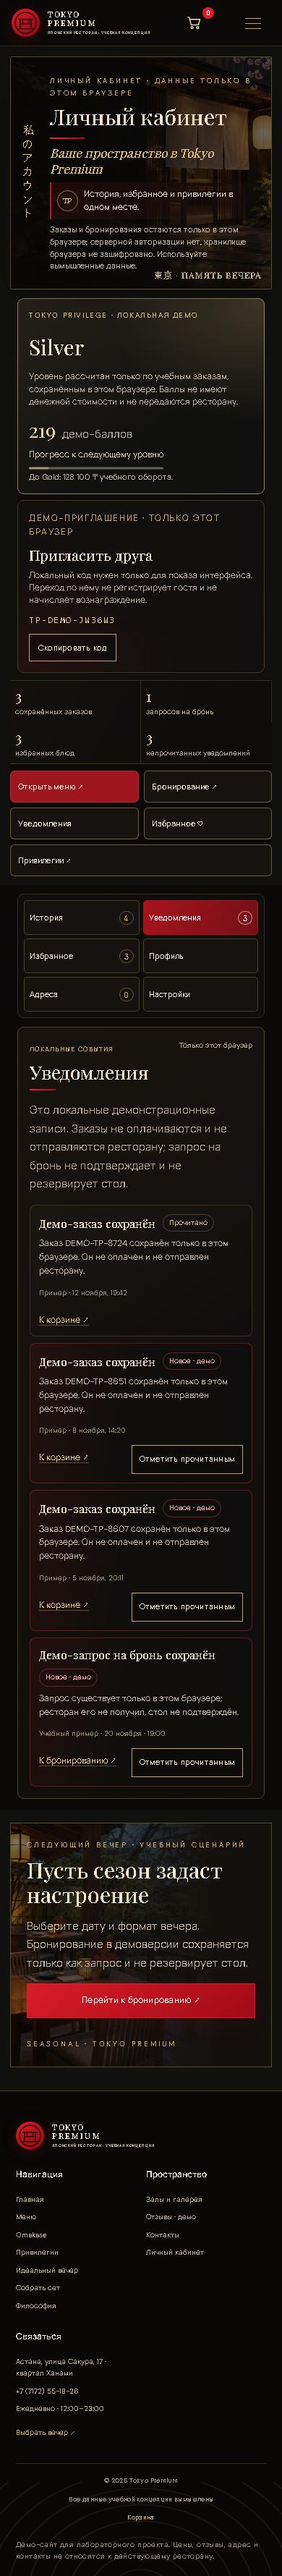
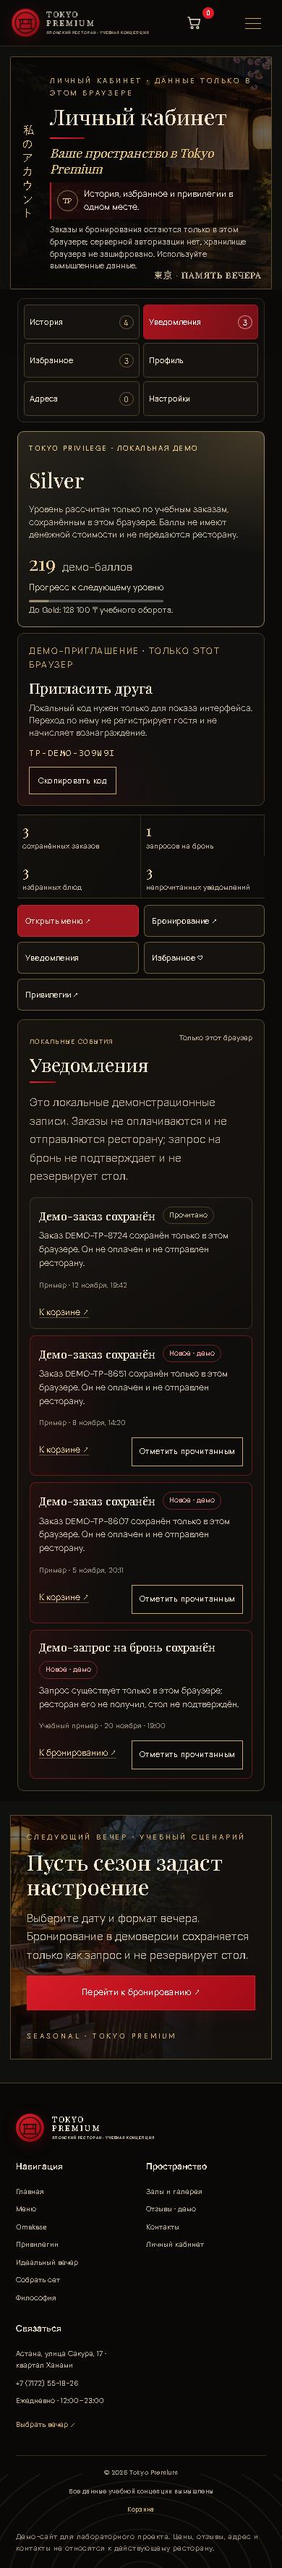
Align account dashboard and mobile navigation

diff --git a/docs/account.html b/docs/account.html
@@ -2,8 +2,8 @@
   <div class="account-overview-art"><img src="assets/generated/contact-exterior.webp" alt="Вход в ресторан Tokyo Premium с цветущей сакурой" loading="eager" fetchpriority="high"><span class="account-demo-seal">東京 · ПАМЯТЬ ВЕЧЕРА</span></div>
   <div class="account-overview-body"><div class="kicker">Личный кабинет · данные только в этом браузере</div><h1>Личный кабинет</h1><p class="account-overview-lead">Ваше пространство в Tokyo Premium</p><p class="account-overview-greeting" id="demo-display-name">История, избранное и привилегии в одном месте.</p><p class="account-overview-privacy">Заказы и бронирования остаются только в этом браузере; серверной авторизации нет, хранилище браузера не зашифровано. Используйте вымышленные данные.</p></div>
 </section>
-<section class="section tp20-static-privilege" data-tp-demo-loyalty aria-label="Демонстрационная программа Tokyo Privilege"><article class="tp20-loyalty-card" data-tp-loyalty-card data-tier="Silver"><span class="kicker">TOKYO PRIVILEGE · ЛОКАЛЬНАЯ ДЕМО</span><h2 data-tp-loyalty-tier>Silver</h2><p>Уровень рассчитан только по учебным заказам, сохранённым в этом браузере. Баллы не имеют денежной стоимости и не передаются ресторану.</p><div class="tp20-loyalty-balance"><strong data-tp-loyalty-points>0</strong><span>демо-баллов</span></div><label>Прогресс к следующему уровню<progress data-tp-loyalty-progress max="100" value="0">0%</progress></label><small data-tp-loyalty-progress-label>Статус появится после сохранённого учебного заказа.</small></article><article class="tp20-referral-card"><span class="kicker">ДЕМО-ПРИГЛАШЕНИЕ · ТОЛЬКО ЭТОТ БРАУЗЕР</span><h3>Пригласить друга</h3><p>Локальный код нужен только для показа интерфейса. Переход по нему не регистрирует гостя и не начисляет вознаграждение.</p><code data-tp-demo-referral>TP-DEMO</code><button class="button secondary" type="button" data-tp-copy-referral>Скопировать код</button></article></section><section class="section account-demo-summary" aria-label="Краткая сводка профиля"><div class="account-metrics"><article><strong data-account-stat="orders">0</strong><span>сохранённых заказов</span></article><article><strong data-account-stat="bookings">0</strong><span>запросов на бронь</span></article><article><strong data-account-stat="favorites">0</strong><span>избранных блюд</span></article><article><strong data-account-stat="notifications">0</strong><span>непрочитанных уведомлений</span></article></div><aside class="account-demo-seed"><div><strong>Посмотрите заполненный кабинет</strong><p>Создайте вымышленные учебные заказы, запрос на бронь и избранные блюда. Они останутся только в этом браузере; удалить всё можно в настройках.</p><p class="form-status" data-account-demo-seed-status aria-live="polite"></p></div><button class="button secondary" type="button" data-account-demo-seed>Заполнить учебный пример</button></aside><div class="account-quick-actions"><a href="menu.html">Открыть меню ↗</a><a href="booking.html">Бронирование ↗</a><button type="button" data-account-quick-target="notifications">Уведомления</button><button type="button" data-account-quick-target="favorites">Избранное ♡</button><a href="offers.html">Привилегии ↗</a></div></section>
-<section class="section account-dashboard"><div class="account-demo-layout"><nav class="account-demo-nav" aria-label="Разделы профиля"><button class="active" data-account-tab="history">История</button><button data-account-tab="notifications">Уведомления</button><button data-account-tab="favorites">Избранное</button><button data-account-tab="profile">Профиль</button><button data-account-tab="addresses">Адреса</button><button data-account-tab="settings">Настройки</button></nav><div><section class="account-demo-panel" data-account-panel="notifications" hidden><div class="account-dashboard-section-heading"><div><span class="kicker">ЛОКАЛЬНЫЕ СОБЫТИЯ</span><h2>Уведомления</h2></div><span class="account-section-count">Только этот браузер</span></div><p class="account-local-note">Это локальные демонстрационные записи. Заказы не оплачиваются и не отправляются ресторану; запрос на бронь не подтверждает и не резервирует стол.</p><div id="demo-notifications" class="account-notification-list" aria-live="polite"></div></section><section class="account-demo-panel" data-account-panel="history"><div class="intro-grid"><div><div class="kicker">Локальные записи</div><h2>Заказы</h2><div id="demo-orders" class="account-list"></div></div><div><div class="kicker">Локальные записи</div><h2>Бронирования</h2><div id="demo-bookings" class="account-list"></div></div></div><section class="account-favorites-overview" aria-labelledby="account-favorites-overview-title">
+
+<section class="section account-dashboard"><div class="account-demo-layout"><nav class="account-demo-nav" aria-label="Разделы профиля"><button class="active" data-account-tab="history">История</button><button data-account-tab="notifications">Уведомления</button><button data-account-tab="favorites">Избранное</button><button data-account-tab="profile">Профиль</button><button data-account-tab="addresses">Адреса</button><button data-account-tab="settings">Настройки</button></nav><div class="account-demo-content"><section class="section tp20-static-privilege" data-tp-demo-loyalty aria-label="Демонстрационная программа Tokyo Privilege"><article class="tp20-loyalty-card" data-tp-loyalty-card data-tier="Silver"><span class="kicker">TOKYO PRIVILEGE · ЛОКАЛЬНАЯ ДЕМО</span><h2 data-tp-loyalty-tier>Silver</h2><p>Уровень рассчитан только по учебным заказам, сохранённым в этом браузере. Баллы не имеют денежной стоимости и не передаются ресторану.</p><div class="tp20-loyalty-balance"><strong data-tp-loyalty-points>0</strong><span>демо-баллов</span></div><label>Прогресс к следующему уровню<progress data-tp-loyalty-progress max="100" value="0">0%</progress></label><small data-tp-loyalty-progress-label>Статус появится после сохранённого учебного заказа.</small></article><article class="tp20-referral-card"><span class="kicker">ДЕМО-ПРИГЛАШЕНИЕ · ТОЛЬКО ЭТОТ БРАУЗЕР</span><h3>Пригласить друга</h3><p>Локальный код нужен только для показа интерфейса. Переход по нему не регистрирует гостя и не начисляет вознаграждение.</p><code data-tp-demo-referral>TP-DEMO</code><button class="button secondary" type="button" data-tp-copy-referral>Скопировать код</button></article></section><section class="section account-demo-summary" aria-label="Краткая сводка профиля"><div class="account-metrics"><article><strong data-account-stat="orders">0</strong><span>сохранённых заказов</span></article><article><strong data-account-stat="bookings">0</strong><span>запросов на бронь</span></article><article><strong data-account-stat="favorites">0</strong><span>избранных блюд</span></article><article><strong data-account-stat="notifications">0</strong><span>непрочитанных уведомлений</span></article></div><aside class="account-demo-seed"><div><strong>Посмотрите заполненный кабинет</strong><p>Создайте вымышленные учебные заказы, запрос на бронь и избранные блюда. Они останутся только в этом браузере; удалить всё можно в настройках.</p><p class="form-status" data-account-demo-seed-status aria-live="polite"></p></div><button class="button secondary" type="button" data-account-demo-seed>Заполнить учебный пример</button></aside><div class="account-quick-actions"><a href="menu.html">Открыть меню ↗</a><a href="booking.html">Бронирование ↗</a><button type="button" data-account-quick-target="notifications">Уведомления</button><button type="button" data-account-quick-target="favorites">Избранное ♡</button><a href="offers.html">Привилегии ↗</a></div></section><section class="account-demo-panel" data-account-panel="notifications" hidden><div class="account-dashboard-section-heading"><div><span class="kicker">ЛОКАЛЬНЫЕ СОБЫТИЯ</span><h2>Уведомления</h2></div><span class="account-section-count">Только этот браузер</span></div><p class="account-local-note">Это локальные демонстрационные записи. Заказы не оплачиваются и не отправляются ресторану; запрос на бронь не подтверждает и не резервирует стол.</p><div id="demo-notifications" class="account-notification-list" aria-live="polite"></div></section><section class="account-demo-panel" data-account-panel="history"><div class="intro-grid"><div><div class="kicker">Локальные записи</div><h2>Заказы</h2><div id="demo-orders" class="account-list"></div></div><div><div class="kicker">Локальные записи</div><h2>Бронирования</h2><div id="demo-bookings" class="account-list"></div></div></div><section class="account-favorites-overview" aria-labelledby="account-favorites-overview-title">
   <div class="account-favorites-overview-heading">
     <div><span class="kicker">СОХРАНЁННЫЕ ВЫБОРЫ · В ЭТОМ БРАУЗЕРЕ</span><h2 id="account-favorites-overview-title">Избранные блюда</h2></div>
     <button class="button secondary" type="button" data-account-quick-target="favorites" aria-controls="demo-favorites">Все избранное ↗</button>

diff --git a/docs/experience-ui.css b/docs/experience-ui.css
@@ -369,3 +369,80 @@
 .tp-evening-set-card { grid-column: 1 / -1; border-color: rgba(210, 174, 108, .48); background: linear-gradient(120deg, rgba(138, 18, 29, .14), rgba(11, 10, 9, .88) 48%); }
 .tp-evening-set-components { display: grid; grid-template-columns: repeat(auto-fit, minmax(min(100%, 12rem), 1fr)); gap: .45rem 1rem; padding: 0; margin: .8rem 0 0; list-style: none; }
 .tp-evening-set-components li { display: flex; justify-content: space-between; gap: .8rem; padding: .45rem 0; border-bottom: 1px solid rgba(212, 178, 119, .16); }
+
+/* Keep the account sidebar beside the member summary from the first dashboard row. */
+@media (min-width: 1101px) {
+  .account-dashboard .account-dashboard-content { grid-template-columns: minmax(0, 1.22fr) minmax(300px, .78fr); gap: 12px; }
+  .account-dashboard .account-dashboard-overview,
+  .account-dashboard .account-dashboard-actions { grid-column: 1 / -1; }
+  .account-dashboard .account-dashboard-overview { margin: 0 0 2px; }
+  .account-dashboard .account-dashboard-actions { margin-bottom: 2px; }
+  .account-dashboard .account-dashboard-primary { grid-column: 1; }
+  .account-dashboard .account-dashboard-aside { grid-column: 2; grid-template-columns: minmax(0, 1fr); }
+  .account-dashboard .account-order-card--purchase { grid-template-columns: 82px minmax(0, 1fr); align-items: center; }
+  .account-dashboard .account-order-card--purchase .account-order-preview { width: 82px; height: 76px; }
+  .account-dashboard .account-order-content { display: grid; grid-template-columns: minmax(0, 1fr) auto; align-items: center; gap: 2px 12px; }
+  .account-dashboard .account-order-heading { grid-column: 1 / -1; }
+  .account-dashboard .account-order-meta,
+  .account-dashboard .order-item-details { grid-column: 1; }
+  .account-dashboard .account-order-repeat-actions { grid-column: 2; grid-row: 2 / 4; align-self: center; }
+  .account-dashboard .account-order-repeat-note { grid-column: 1 / -1; }
+
+  .account-demo-page .account-demo-content { display: grid; align-content: start; gap: 12px; min-width: 0; }
+  .account-demo-page .tp20-static-privilege,
+  .account-demo-page .account-demo-summary { width: 100%; margin: 0; }
+  .account-demo-page .tp20-static-privilege { grid-template-columns: minmax(0, 1.15fr) minmax(250px, .85fr); gap: 10px; }
+  .account-demo-page .tp20-static-privilege .tp20-loyalty-card,
+  .account-demo-page .tp20-referral-card { min-height: 154px; padding: 15px 18px; }
+  .account-demo-page .tp20-static-privilege .tp20-loyalty-card p,
+  .account-demo-page .tp20-referral-card p { font-size: .68rem; line-height: 1.38; }
+  .account-demo-page .account-demo-summary { gap: 8px; }
+  .account-demo-page .account-demo-summary .account-quick-actions { grid-template-columns: repeat(4, minmax(0, 1fr)); }
+  .account-demo-page .account-demo-summary .account-quick-actions > *:last-child { grid-column: auto; }
+  .account-demo-page .account-demo-order { grid-template-columns: 76px minmax(0, 1fr); align-items: center; }
+  .account-demo-page .account-demo-order .account-order-preview { width: 76px; height: 72px; }
+  .account-demo-page .account-demo-order .demo-order-content { display: grid; grid-template-columns: minmax(0, 1fr) auto; align-items: center; gap: 3px 12px; }
+  .account-demo-page .account-demo-order .account-demo-record-badge { grid-column: 1 / -1; justify-self: start; }
+  .account-demo-page .account-demo-order .demo-order-content > small { grid-column: 1; grid-row: 2; margin: 0; }
+  .account-demo-page .account-demo-order .demo-order-content > strong { grid-column: 2; grid-row: 2; text-align: right; }
+  .account-demo-page .account-demo-order .demo-order-content > p:first-of-type,
+  .account-demo-page .account-demo-order .demo-order-content > p:nth-of-type(2),
+  .account-demo-page .account-demo-order .demo-order-details { grid-column: 1; }
+  .account-demo-page .account-demo-order .demo-order-content > p { margin: 0; }
+  .account-demo-page .account-demo-order .demo-order-content > button { grid-column: 2; grid-row: 3 / 6; align-self: center; }
+}
+
+@media (min-width: 681px) and (max-width: 1100px) {
+  .account-demo-page .account-demo-content { display: grid; gap: 12px; }
+  .account-demo-page .tp20-static-privilege,
+  .account-demo-page .account-demo-summary { width: 100%; margin: 0; }
+  .account-dashboard .account-dashboard-content { grid-template-columns: minmax(0, 1fr); }
+  .account-dashboard .account-dashboard-overview,
+  .account-dashboard .account-dashboard-actions,
+  .account-dashboard .account-dashboard-primary,
+  .account-dashboard .account-dashboard-aside { grid-column: 1; }
+}
+
+@media (max-width: 680px) {
+  .account-demo-page .account-demo-content { display: grid; gap: 9px; }
+  .account-demo-page .tp20-static-privilege,
+  .account-demo-page .account-demo-summary { width: 100%; margin: 0; }
+  .account-dashboard .account-dashboard-content { grid-template-columns: minmax(0, 1fr); }
+  .account-dashboard .account-dashboard-overview,
+  .account-dashboard .account-dashboard-actions,
+  .account-dashboard .account-dashboard-primary,
+  .account-dashboard .account-dashboard-aside { grid-column: 1; }
+  .account-demo-page .account-demo-order .demo-order-content { display: grid; grid-template-columns: minmax(0, 1fr); gap: 4px; }
+  .account-demo-page .account-demo-order .account-demo-record-badge,
+  .account-demo-page .account-demo-order .demo-order-content > small,
+  .account-demo-page .account-demo-order .demo-order-content > strong,
+  .account-demo-page .account-demo-order .demo-order-content > p,
+  .account-demo-page .account-demo-order .demo-order-details,
+  .account-demo-page .account-demo-order .demo-order-content > button { grid-column: 1; grid-row: auto; text-align: left; }
+}
+
+@media (max-width: 900px) {
+  .account-demo-page .account-demo-layout { display: flex; flex-direction: column; }
+  .account-demo-page .account-demo-content { display: contents; }
+  /* Keep the visual sequence aligned with the DOM and keyboard focus order. */
+}

diff --git a/experience-ui.css b/experience-ui.css
@@ -369,3 +369,80 @@
 .tp-evening-set-card { grid-column: 1 / -1; border-color: rgba(210, 174, 108, .48); background: linear-gradient(120deg, rgba(138, 18, 29, .14), rgba(11, 10, 9, .88) 48%); }
 .tp-evening-set-components { display: grid; grid-template-columns: repeat(auto-fit, minmax(min(100%, 12rem), 1fr)); gap: .45rem 1rem; padding: 0; margin: .8rem 0 0; list-style: none; }
 .tp-evening-set-components li { display: flex; justify-content: space-between; gap: .8rem; padding: .45rem 0; border-bottom: 1px solid rgba(212, 178, 119, .16); }
+
+/* Keep the account sidebar beside the member summary from the first dashboard row. */
+@media (min-width: 1101px) {
+  .account-dashboard .account-dashboard-content { grid-template-columns: minmax(0, 1.22fr) minmax(300px, .78fr); gap: 12px; }
+  .account-dashboard .account-dashboard-overview,
+  .account-dashboard .account-dashboard-actions { grid-column: 1 / -1; }
+  .account-dashboard .account-dashboard-overview { margin: 0 0 2px; }
+  .account-dashboard .account-dashboard-actions { margin-bottom: 2px; }
+  .account-dashboard .account-dashboard-primary { grid-column: 1; }
+  .account-dashboard .account-dashboard-aside { grid-column: 2; grid-template-columns: minmax(0, 1fr); }
+  .account-dashboard .account-order-card--purchase { grid-template-columns: 82px minmax(0, 1fr); align-items: center; }
+  .account-dashboard .account-order-card--purchase .account-order-preview { width: 82px; height: 76px; }
+  .account-dashboard .account-order-content { display: grid; grid-template-columns: minmax(0, 1fr) auto; align-items: center; gap: 2px 12px; }
+  .account-dashboard .account-order-heading { grid-column: 1 / -1; }
+  .account-dashboard .account-order-meta,
+  .account-dashboard .order-item-details { grid-column: 1; }
+  .account-dashboard .account-order-repeat-actions { grid-column: 2; grid-row: 2 / 4; align-self: center; }
+  .account-dashboard .account-order-repeat-note { grid-column: 1 / -1; }
+
+  .account-demo-page .account-demo-content { display: grid; align-content: start; gap: 12px; min-width: 0; }
+  .account-demo-page .tp20-static-privilege,
+  .account-demo-page .account-demo-summary { width: 100%; margin: 0; }
+  .account-demo-page .tp20-static-privilege { grid-template-columns: minmax(0, 1.15fr) minmax(250px, .85fr); gap: 10px; }
+  .account-demo-page .tp20-static-privilege .tp20-loyalty-card,
+  .account-demo-page .tp20-referral-card { min-height: 154px; padding: 15px 18px; }
+  .account-demo-page .tp20-static-privilege .tp20-loyalty-card p,
+  .account-demo-page .tp20-referral-card p { font-size: .68rem; line-height: 1.38; }
+  .account-demo-page .account-demo-summary { gap: 8px; }
+  .account-demo-page .account-demo-summary .account-quick-actions { grid-template-columns: repeat(4, minmax(0, 1fr)); }
+  .account-demo-page .account-demo-summary .account-quick-actions > *:last-child { grid-column: auto; }
+  .account-demo-page .account-demo-order { grid-template-columns: 76px minmax(0, 1fr); align-items: center; }
+  .account-demo-page .account-demo-order .account-order-preview { width: 76px; height: 72px; }
+  .account-demo-page .account-demo-order .demo-order-content { display: grid; grid-template-columns: minmax(0, 1fr) auto; align-items: center; gap: 3px 12px; }
+  .account-demo-page .account-demo-order .account-demo-record-badge { grid-column: 1 / -1; justify-self: start; }
+  .account-demo-page .account-demo-order .demo-order-content > small { grid-column: 1; grid-row: 2; margin: 0; }
+  .account-demo-page .account-demo-order .demo-order-content > strong { grid-column: 2; grid-row: 2; text-align: right; }
+  .account-demo-page .account-demo-order .demo-order-content > p:first-of-type,
+  .account-demo-page .account-demo-order .demo-order-content > p:nth-of-type(2),
+  .account-demo-page .account-demo-order .demo-order-details { grid-column: 1; }
+  .account-demo-page .account-demo-order .demo-order-content > p { margin: 0; }
+  .account-demo-page .account-demo-order .demo-order-content > button { grid-column: 2; grid-row: 3 / 6; align-self: center; }
+}
+
+@media (min-width: 681px) and (max-width: 1100px) {
+  .account-demo-page .account-demo-content { display: grid; gap: 12px; }
+  .account-demo-page .tp20-static-privilege,
+  .account-demo-page .account-demo-summary { width: 100%; margin: 0; }
+  .account-dashboard .account-dashboard-content { grid-template-columns: minmax(0, 1fr); }
+  .account-dashboard .account-dashboard-overview,
+  .account-dashboard .account-dashboard-actions,
+  .account-dashboard .account-dashboard-primary,
+  .account-dashboard .account-dashboard-aside { grid-column: 1; }
+}
+
+@media (max-width: 680px) {
+  .account-demo-page .account-demo-content { display: grid; gap: 9px; }
+  .account-demo-page .tp20-static-privilege,
+  .account-demo-page .account-demo-summary { width: 100%; margin: 0; }
+  .account-dashboard .account-dashboard-content { grid-template-columns: minmax(0, 1fr); }
+  .account-dashboard .account-dashboard-overview,
+  .account-dashboard .account-dashboard-actions,
+  .account-dashboard .account-dashboard-primary,
+  .account-dashboard .account-dashboard-aside { grid-column: 1; }
+  .account-demo-page .account-demo-order .demo-order-content { display: grid; grid-template-columns: minmax(0, 1fr); gap: 4px; }
+  .account-demo-page .account-demo-order .account-demo-record-badge,
+  .account-demo-page .account-demo-order .demo-order-content > small,
+  .account-demo-page .account-demo-order .demo-order-content > strong,
+  .account-demo-page .account-demo-order .demo-order-content > p,
+  .account-demo-page .account-demo-order .demo-order-details,
+  .account-demo-page .account-demo-order .demo-order-content > button { grid-column: 1; grid-row: auto; text-align: left; }
+}
+
+@media (max-width: 900px) {
+  .account-demo-page .account-demo-layout { display: flex; flex-direction: column; }
+  .account-demo-page .account-demo-content { display: contents; }
+  /* Keep the visual sequence aligned with the DOM and keyboard focus order. */
+}

diff --git a/account.php b/account.php
@@ -338,34 +338,6 @@ header_html();
       <?php if ($err): ?><p class="form-status error" role="alert"><?=e($err)?></p><?php endif ?>
       <?php if ($profileNotice): ?><p class="booking-confirmation-notice" role="status"><?=e($profileNotice)?></p><?php endif ?>
 
-      <section class="account-dashboard-overview" aria-label="Краткая сводка аккаунта">
-        <div class="account-dashboard-metrics">
-          <article><span>История заказов</span><strong><?=number_format($orderCount,0,'.',' ')?></strong><small>серверные записи</small></article>
-          <article><span>Бронирования</span><strong><?=number_format($bookingCount,0,'.',' ')?></strong><small>запросы этого аккаунта</small></article>
-          <article><span>Tokyo Privilege</span><strong><?=number_format($loyaltyBalance,0,'.',' ')?></strong><small>учебных баллов · не деньги</small></article>
-          <article><span>Завершённые заказы</span><strong><?=number_format($loyaltySpent,0,'.',' ')?></strong><small>₸ в учебном журнале</small></article>
-        </div>
-        <div class="account-dashboard-loyalty tp20-loyalty-card" id="account-loyalty">
-          <span class="kicker">TOKYO PRIVILEGE · УЧЕБНАЯ ПРОГРАММА</span>
-          <div class="account-tier-row"><h2><?=e($tier['name']??'Уровень не присвоен')?></h2><strong><?=number_format($loyaltyBalance,0,'.',' ')?> <small>баллов</small></strong></div>
-          <p>Баланс складывается из серверного журнала завершённых заказов и не имеет денежной стоимости.</p>
-          <?php if ($nextTier): ?>
-            <div class="tp20-tier-progress" role="progressbar" aria-label="Прогресс до уровня <?=e($nextTier['name'])?>" aria-valuemin="0" aria-valuemax="100" aria-valuenow="<?=$tierProgress?>"><span style="width:<?=$tierProgress?>%"></span></div>
-            <small><?=$tierProgress?>% до уровня <?=e($nextTier['name'])?> · ещё <?=number_format(max(0,(int)$nextTier['minimum_completed_spend']-$loyaltySpent),0,'.',' ')?> ₸ завершённых заказов</small>
-          <?php else: ?>
-            <small>Прогресс определяется активными правилами учебной программы.</small>
-          <?php endif ?>
-          <a class="account-inline-link" href="offers.php">Условия привилегий ↗</a>
-        </div>
-      </section>
-
-      <div class="account-dashboard-actions" aria-label="Быстрые действия">
-        <a href="menu.php">Открыть меню <span>↗</span></a>
-        <a href="set-builder.php">Собрать сет <span>↗</span></a>
-        <a href="pages.php?page=booking">Выбрать вечер <span>↗</span></a>
-        <a href="offers.php">Смотреть привилегии <span>↗</span></a>
-      </div>
-
       <div class="account-dashboard-layout">
         <nav class="account-dashboard-nav" aria-label="Разделы личного кабинета">
           <a href="#account-notifications"><span class="account-nav-icon" aria-hidden="true"><svg viewBox="0 0 24 24"><path d="M18 9a6 6 0 0 0-12 0c0 7-3 7-3 9h18c0-2-3-2-3-9"/><path d="M10 21h4"/></svg></span><span class="account-nav-label">Уведомления</span><small><?=$unreadNotifications?></small></a>
@@ -377,6 +349,34 @@ header_html();
           <a href="#account-settings"><span class="account-nav-icon" aria-hidden="true"><svg viewBox="0 0 24 24"><path d="M12 3v3m0 12v3M3 12h3m12 0h3M5.6 5.6l2.1 2.1m8.6 8.6 2.1 2.1m0-12.8-2.1 2.1m-8.6 8.6-2.1 2.1"/><circle cx="12" cy="12" r="5"/></svg></span><span class="account-nav-label">Настройки</span></a>
         </nav>
         <div class="account-dashboard-content">
+          <section class="account-dashboard-overview" aria-label="Краткая сводка аккаунта">
+            <div class="account-dashboard-metrics">
+              <article><span>История заказов</span><strong><?=number_format($orderCount,0,'.',' ')?></strong><small>серверные записи</small></article>
+              <article><span>Бронирования</span><strong><?=number_format($bookingCount,0,'.',' ')?></strong><small>запросы этого аккаунта</small></article>
+              <article><span>Tokyo Privilege</span><strong><?=number_format($loyaltyBalance,0,'.',' ')?></strong><small>учебных баллов · не деньги</small></article>
+              <article><span>Завершённые заказы</span><strong><?=number_format($loyaltySpent,0,'.',' ')?></strong><small>₸ в учебном журнале</small></article>
+            </div>
+            <div class="account-dashboard-loyalty tp20-loyalty-card" id="account-loyalty">
+              <span class="kicker">TOKYO PRIVILEGE · УЧЕБНАЯ ПРОГРАММА</span>
+              <div class="account-tier-row"><h2><?=e($tier['name']??'Уровень не присвоен')?></h2><strong><?=number_format($loyaltyBalance,0,'.',' ')?> <small>баллов</small></strong></div>
+              <p>Баланс складывается из серверного журнала завершённых заказов и не имеет денежной стоимости.</p>
+              <?php if ($nextTier): ?>
+                <div class="tp20-tier-progress" role="progressbar" aria-label="Прогресс до уровня <?=e($nextTier['name'])?>" aria-valuemin="0" aria-valuemax="100" aria-valuenow="<?=$tierProgress?>"><span style="width:<?=$tierProgress?>%"></span></div>
+                <small><?=$tierProgress?>% до уровня <?=e($nextTier['name'])?> · ещё <?=number_format(max(0,(int)$nextTier['minimum_completed_spend']-$loyaltySpent),0,'.',' ')?> ₸ завершённых заказов</small>
+              <?php else: ?>
+                <small>Прогресс определяется активными правилами учебной программы.</small>
+              <?php endif ?>
+              <a class="account-inline-link" href="offers.php">Условия привилегий ↗</a>
+            </div>
+          </section>
+
+          <div class="account-dashboard-actions" aria-label="Быстрые действия">
+            <a href="menu.php">Открыть меню <span>↗</span></a>
+            <a href="set-builder.php">Собрать сет <span>↗</span></a>
+            <a href="pages.php?page=booking">Выбрать вечер <span>↗</span></a>
+            <a href="offers.php">Смотреть привилегии <span>↗</span></a>
+          </div>
+
           <div class="account-dashboard-primary">
             <section id="account-notifications" class="account-section account-dashboard-panel" aria-labelledby="account-notifications-title">
               <div class="account-dashboard-section-heading"><div><span class="kicker">СТАТУСЫ · ТОЛЬКО ВАШ АККАУНТ</span><h2 id="account-notifications-title">Уведомления</h2></div><span class="account-section-count"><?=$unreadNotifications?> непрочитано</span></div>

diff --git a/project-docs/final-modernization-report.md b/project-docs/final-modernization-report.md
@@ -438,3 +438,7 @@ Commit `431a0a6cb3131627d736f6b447475e4f095ea300` is the current `main` and publ
 Verification: `npm run test:cart` passed 14/14, PHP syntax checks passed, and hosted Actions run [44221178924](https://github.com/altento/tokyo-premium/actions/runs/44221178924) passed PHP/SQLite integration, browser regression/visual QA, static export and deployment. Cache-busted public checks verified HTTP 200 and expected contents for the home, account demo, cart store and interaction script. Local Playwright was unavailable in this clone because dependencies were not installed; browser verification ran in CI.
 
 The broad modernization is still incomplete. This release does not prove full visual parity with the 11 references; no PHP web host, live mail provider, payment provider or live table inventory is configured. The connected Runway workspace has zero video credits and no available video model, so no generated hero video was added; current still-image motion remains the fallback.
+
+## 2026-11-18 · Account dashboard alignment follow-up
+
+The PHP account template and Pages demo now place their section navigation beside the first summary row on desktop. The static demo uses a compact four-action row and denser order cards; mobile keeps the summary, actions, navigation and selected content in a single-column flow. Fresh populated captures were visually inspected at 1440 px and 390 px and compared with `design-references/11-account.png`; evidence is in `visual-qa/account-dashboard-layout-2026-11-18/`. The focused `npm run test:account-demo` passed, covering responsive geometry and real local-demo interactions; `php -l account.php` passed. PHP browser rendering could not be performed locally because neither installed PHP CLI has `pdo_sqlite`. The reference still has a portrait/contact strip and a denser multi-panel dashboard absent from this demo, so visual parity remains open. Gemini's review bridge was attempted but is not authenticated in this environment; no credential was requested or placed in the project.

diff --git a/project-docs/visual-qa/account-dashboard-layout-2026-11-18/README.md b/project-docs/visual-qa/account-dashboard-layout-2026-11-18/README.md
@@ -1,0 +1,15 @@
+# Account dashboard layout follow-up — 2026-11-18
+
+Compared the fresh browser-local account captures with `design-references/11-account.png`. The static account's member and activity summary now share the dashboard grid with the section navigation: at desktop width the left navigation begins beside the first content row instead of starting below a full-width loyalty/metrics block. Order cards are denser on desktop; the mobile layout follows DOM and keyboard order: section navigation, privilege summary, activity summary and the selected panel.
+
+## Evidence
+
+- `account-seeded-desktop.jpg` — 1440 px viewport, populated browser-local example.
+- `account-seeded-mobile.jpg` — 390 px viewport, populated browser-local example with navigation before the account content.
+- `account-notifications-mobile.jpg` and `account-notifications-unread-desktop.jpg` — read/unread notification states.
+- `npm run test:account-demo` passed against the local Pages preview. The regression covers 320 px overflow, dashboard column alignment, mobile quick-action and tab layout, saved dish/cart interaction, XSS-safe local notifications, clear-data and explicit sample restore.
+- `php -l account.php` passed. The available PHP CLI has no PDO SQLite driver, so this change's PHP-rendered layout was not captured locally; the server-side account functionality was not changed.
+
+## Remaining visual difference
+
+The approved reference is a denser profile dashboard with a portrait, profile/contact strip, a larger orders panel and side-by-side bonuses, addresses and settings. The current static demo keeps browser-local status disclosures and tabbed sections, and still does not reproduce those exact panels. This is a structural improvement toward reference 11, not full visual parity or acceptance of the whole site.

diff --git a/project-docs/testing-report.md b/project-docs/testing-report.md
@@ -547,3 +547,7 @@ GitHub Actions run [44179154931](https://github.com/altento/tokyo-premium/action
 - `npm run test:cart` passed 14/14; PHP lint passed for `account.php`, `lib/commerce.php`, and the SQLite integration test. GitHub Actions run [44221178924](https://github.com/altento/tokyo-premium/actions/runs/44221178924) passed PHP/SQLite integration, browser regression/visual QA, static export, and Pages deployment.
 - Cache-busted public requests for the home page, `account.html`, `cart-store.js`, and `luxury.js` returned HTTP 200 and contained the expected release code. This is static Pages verification; the repeat-order PHP route is exercised in hosted CI, not on Pages.
 - A local browser run could not start because this checkout has no installed `playwright` package. The workflow installed its pinned browser dependencies and passed the project browser suite. Pixel-by-pixel comparison of all 11 references remains incomplete.
+
+## 2026-11-18 account dashboard alignment follow-up
+
+The Pages account now aligns its section navigation beside the member/loyalty summary from the first dashboard row, tightening saved-order cards on desktop while retaining the mobile single-column sequence. Fresh 1440 px and 390 px populated screenshots and a focused comparison against `design-references/11-account.png` are in `visual-qa/account-dashboard-layout-2026-11-18/`. `npm run test:account-demo` passed, including 320 px overflow and desktop navigation/summary alignment; `php -l account.php` passed. Local PHP rendering was not available because the installed CLI lacks PDO SQLite. The account remains visibly different from the approved mockup and this focused pass does not establish site-wide acceptance.

diff --git a/project-docs/visual-qa/README.md b/project-docs/visual-qa/README.md
@@ -277,3 +277,7 @@ Compact PHP account navigation, active-section accessibility state and server-st
 ## 2026-11-18 Omakase editorial follow-up
 
 Compared `design-references/04-omakase.png` with fresh PHP and static captures after selecting course stage 2. The selected-stage story remains interactive but is now a compact horizontal editorial panel on desktop and a shorter stacked card on mobile; its note was shortened without removing the demo/allergen disclosure. Added an original SVG landscape to the closing parchment quote strip and darkened its text for contrast. `npm run test:tokyo20` passed for PHP and Pages, including all 21 PHP and 19 static dish routes, Omakase course/photo behavior, desktop/mobile panel-height ceilings, quote-art availability and text color, plus responsive overflow checks. Screenshots reviewed: `12-php-omakase-stage-2.jpg`, `12-php-omakase-mobile.jpg`, `12-static-omakase-stage-2.jpg`, and `12-static-omakase-mobile.jpg`. Reference rhythm is closer, though the selectable course detail remains an intentional extra section absent from the reference; full-page parity, CI and public deployment are not claimed.
+
+## 2026-11-18 — account dashboard follow-up
+
+Current evidence for the account layout update is under `account-dashboard-layout-2026-11-18/`: populated desktop and phone captures plus a comparison against reference 11. This follows the earlier `account-refresh-2026-11-17/` pass; the newer captures should be used for the current static layout. The narrow account regression passed and PHP syntax passed. The screenshots show a browser-local demo, not an authenticated account or live server history.
